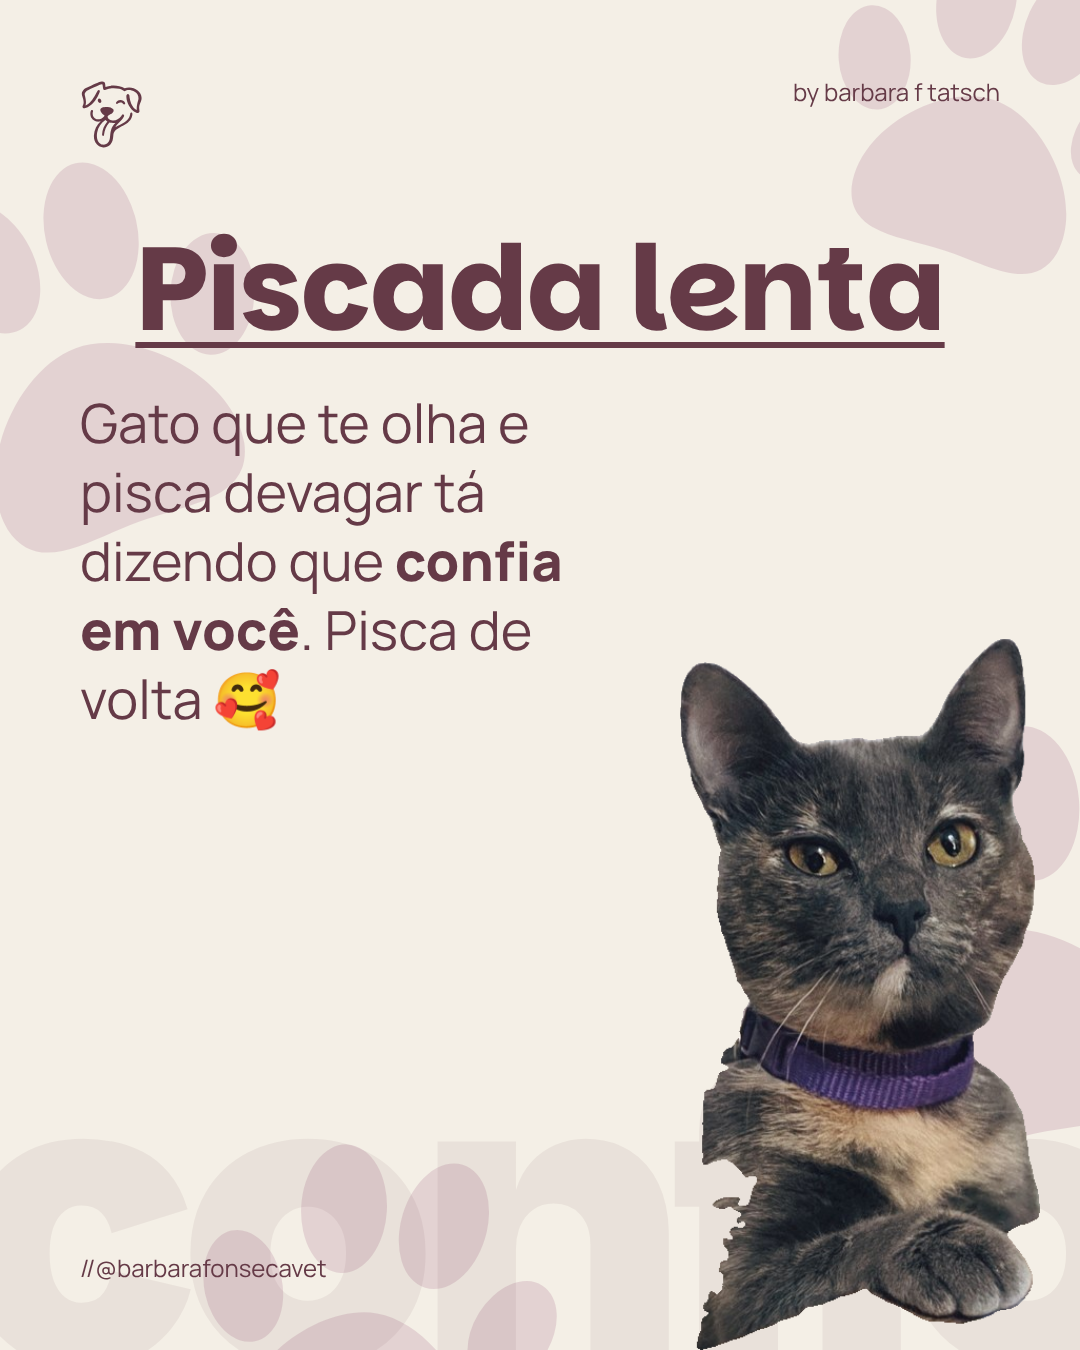
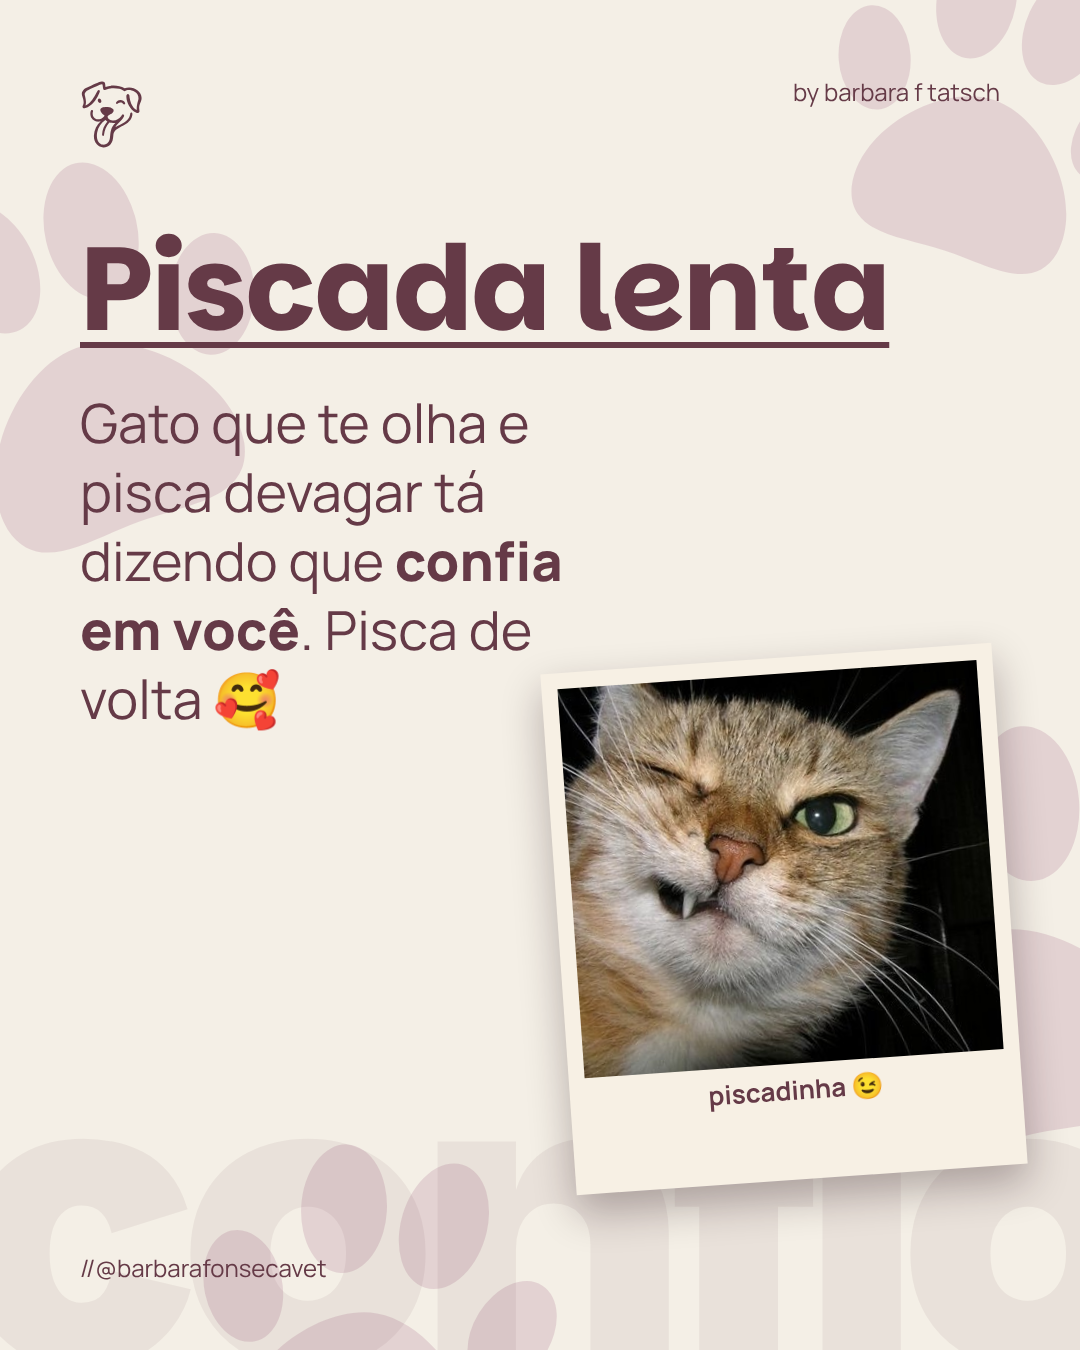
Fotos novas de gato na toxoplasmose e na piscada lenta; edições do canvas espelhadas
Ultrassom com nome e data de nascimento desfocados; recorte do gato no vaso
com a transparência original.

Claude-Session: https://claude.ai/code/session_012dBNqwcpy8QWcz4DKmFao3

Changed region(s): [[0.4889, 0.4667, 0.9778, 1.0], [0.0611, 0.1556, 0.8861, 0.28]]

diff --git a/Barbara/posts/carrosseis-figma/05-o-que-seu-pet-diz.html b/Barbara/posts/carrosseis-figma/05-o-que-seu-pet-diz.html
@@ -1,12 +1,12 @@
 <!doctype html><html lang="pt-BR"><head><meta charset="utf-8"><link rel="stylesheet" href="../../design-system/components/bundle.css"><link rel="stylesheet" href="estilo.css"><title>O que seu pet tenta te dizer todos os dias</title></head><body><div class="tira">
 
 <section class="s foto-s"><img class="foto" src="../../design-system/assets/Fotos/banco-novo/salsicha-fantasia-flor.webp" alt="Salsicha fantasiado de flor laranja olhando pra cima"><div class="sombra-baixo" style="background:linear-gradient(0deg,rgba(40,15,24,.88) 0%,rgba(40,15,24,.55) 38%,rgba(40,15,24,0) 62%)"></div><div class="sombra-topo" style="background:linear-gradient(180deg,rgba(40,15,24,.8) 0%,rgba(40,15,24,.45) 34%,rgba(40,15,24,0) 55%)"></div> <i class="bf-logo"></i><p class="by">by barbara f tatsch</p><p class="handle">//@barbarafonsecavet</p>
-  <div class="capa-bloco" style="top:170px"><p class="gigante" style="font-size:126px;line-height:.92">O que seu pet tenta te dizer</p><span class="etiqueta">[todos os dias?]</span></div>
+  <div class="capa-bloco" style="top:170px"><p class="gigante" style="font-size:126px;line-height:.92">O que seu pet tenta te dizer</p><span class="etiqueta" style="background-color:#A0AD90">[todos os dias?]</span></div>
   <div class="texto-pe" style="bottom:120px"><p class="texto-mini" style="font-size:40px">O rabo, as orelhas, o olhar, a postura e até o silêncio dizem <b>muito sobre como ele está se sentindo.</b></p></div></section>
 
 <section class="s creme"><i class="pata" style="left:-130px;top:150px;width:420px;height:420px;transform:rotate(-20deg)"></i><i class="pata" style="right:-90px;top:-70px;width:360px;height:360px;transform:rotate(18deg)"></i><i class="pata" style="right:-150px;bottom:170px;width:470px;height:470px;transform:rotate(-12deg)"></i><i class="pata" style="left:180px;bottom:-170px;width:390px;height:390px;transform:rotate(10deg)"></i><p class="fundo-palavra" aria-hidden="true" style="left:-40px;bottom:-40px">confio</p><i class="bf-logo"></i><p class="by">by barbara f tatsch</p><p class="handle">//@barbarafonsecavet</p>
-  <img class="recorte" src="recorte-gata-escaminha.png" alt="" style="right:40px;bottom:0;width:360px">
-  <div class="miolo" style="justify-content:flex-start;top:230px"><h2 class="titulo"><u>Piscada lenta</u></h2>
+  <div class="polaroid" style="right:70px;bottom:170px;width:420px;height:450px;transform:rotate(-4deg)"><div style="background-image:url(../../design-system/assets/Fotos/banco-novo/gato-piscando.png);background-position:50% 40%;height:390px"></div><span>piscadinha 😉</span></div>
+  <div class="miolo" style="justify-content:flex-start;top:230px"><h2 class="titulo" style="text-align:left"><u>Piscada lenta</u></h2>
   <p class="corpo" style="max-width:560px">Gato que te olha e pisca devagar tá dizendo que <b>confia em você</b>. Pisca de volta 🥰</p></div></section>
 
 <section class="s vinho"><i class="bf-logo"></i><p class="by">by barbara f tatsch</p><p class="handle">//@barbarafonsecavet</p><p class="fundo-palavra" aria-hidden="true" style="left:-40px;top:620px">rabo</p>
@@ -17,9 +17,7 @@
   <div class="card-foto" style="background-image:url(../../design-system/assets/Fotos/banco-novo/dois-goldens-deitados.png);background-position:50% 55%"><div class="tarja-card"><div class="bf-tarja"><span><b>Barriga pra cima</b>,</span></div></div></div>
   <div class="bilhete">ou esparramado assim: nem sempre é convite pra carinho. <b>Às vezes é só confiança.</b></div></section>
 
-<section class="s foto-s"><img class="foto" src="../../design-system/assets/Fotos/banco-novo/corgi-dirigindo-meme.webp" alt="Corgi no volante de boca aberta" style="object-position:35% 50%"><div class="sombra-topo" style="background:linear-gradient(180deg,rgba(40,15,24,.8) 0%,rgba(40,15,24,.45) 34%,rgba(40,15,24,0) 55%)"></div> <i class="bf-logo"></i><p class="by">by barbara f tatsch</p><p class="handle">//@barbarafonsecavet</p>
-  <div class="grupo-topo"><div class="bf-tarja"><span>Bocejo e</span><span><b>lambida no focinho</b></span></div>
-  <p class="texto-mini" style="font-size:46px">Fora de hora, podem ser sinal de que ele tá <b>desconfortável</b>.</p></div></section>
+<section class="s foto-s"><img class="foto" src="../../design-system/assets/Fotos/banco-novo/corgi-dirigindo-meme.webp" alt="Corgi no volante de boca aberta" style="object-position:35% 50%"><div class="sombra-topo" style="background:linear-gradient(180deg,rgba(40,15,24,.8) 0%,rgba(40,15,24,.45) 34%,rgba(40,15,24,0) 55%)"><div class="bf-tarja" style="position:absolute;left:163px;top:838px"><span>Bocejo e</span><span><b>lambida no focinho</b></span></div><p class="texto-mini" style="font-size:46px;position:absolute;left:-29px;top:1058px;text-align:center;width:1078px">Fora de hora, podem ser sinal de que ele tá <b>desconfortável</b>.</p></div> <i class="bf-logo"></i><p class="by">by barbara f tatsch</p><p class="handle">//@barbarafonsecavet</p></section>
 
 <section class="s xadrez--salvia"><i class="bf-logo"></i><p class="by">by barbara f tatsch</p><p class="handle">//@barbarafonsecavet</p>
   <div class="miolo"><div class="cartaz"><h2 class="titulo">O silêncio também fala</h2>

diff --git a/Barbara/posts/carrosseis-figma/01-toxoplasmose.html b/Barbara/posts/carrosseis-figma/01-toxoplasmose.html
@@ -4,7 +4,7 @@
   <div class="capa-bloco" style="bottom:130px"><span class="etiqueta">[mito ou verdade?]</span><p class="gigante" style="font-size:138px">Toxoplasmose</p><p class="sub-gigante">é <b>doença do gato?</b> 🐈</p></div></section>
 
 <section class="s creme"><p class="fundo-palavra" aria-hidden="true" style="left:-30px;bottom:-40px">mito</p><i class="pata" style="left:-130px;top:150px;width:420px;height:420px;transform:rotate(-20deg)"></i><i class="pata" style="right:-90px;top:-70px;width:360px;height:360px;transform:rotate(18deg)"></i><i class="pata" style="right:-150px;bottom:170px;width:470px;height:470px;transform:rotate(-12deg)"></i><i class="pata" style="left:180px;bottom:-170px;width:390px;height:390px;transform:rotate(10deg)"></i> <i class="bf-logo"></i><p class="by">by barbara f tatsch</p><p class="handle">//@barbarafonsecavet</p>
-  <img class="recorte" src="recorte-filhote-gato.png" alt="" style="right:10px;bottom:0;width:440px">
+  
   <div class="miolo" style="justify-content:flex-start;top:230px"><h2 class="titulo" style="text-align:start"><u>Não é</u> bem assim.</h2>
   <p class="corpo" style="max-width:520px">A forma mais comum de pegar é <b>comendo</b>: carne crua ou mal passada e verdura mal lavada.</p>
   <p class="fecho" style="max-width:520px">O gato só leva a fama.</p></div></section>
@@ -15,19 +15,19 @@
 
 <section class="s vinho"><p class="fundo-palavra" aria-hidden="true" style="left:-40px;top:560px">dias</p><i class="bf-logo"></i><p class="by">by barbara f tatsch</p><p class="handle">//@barbarafonsecavet</p>
   <h2 class="e5-titulo">E o cocô fresquinho não passa.</h2>
-  <img class="recorte" src="recorte-dois-gatos.png" alt="" style="right:-40px;bottom:120px;width:520px">
+  <img class="recorte" src="recorte-gato-no-vaso.png" alt="Gato sentado no vaso sanitário" style="right:10px;bottom:0;width:410px">
   <p class="e5-texto">Ele leva <b>de 1 a 5 dias</b> pra ficar infectante. Limpar a caixinha <b>todo dia</b> já corta esse caminho.</p></section>
 
-<section class="s foto-s"><img class="foto" src="../../design-system/assets/Fotos/filhote-gato-no-casaco.jpg" alt="Gatinho no colo, dentro do casaco"><div class="sombra-topo" style="background:linear-gradient(180deg,rgba(40,15,24,.6) 0%,rgba(40,15,24,.25) 30%,rgba(40,15,24,0) 45%)"></div><i class="bf-logo"></i><p class="by">by barbara f tatsch</p><p class="handle">//@barbarafonsecavet</p>
-  <div class="grupo-topo"><div class="bf-tarja"><span>Grávida? <b>Fica com o gato.</b></span></div>
-  <p class="texto-mini">Pede pra outra pessoa limpar a caixinha. Se não der, usa <b>luva</b> e <b>lava bem as mãos</b>.</p></div></section>
+<section class="s foto-s"><img class="foto" src="../../design-system/assets/Fotos/banco-novo/gato-ultrassom-gravida.jpg" alt="Gato laranja ao lado de uma tira de ultrassom de bebê" style="object-position:40% 35%"><div class="sombra-baixo" style="background:linear-gradient(0deg,rgba(40,15,24,.88) 0%,rgba(40,15,24,.55) 38%,rgba(40,15,24,0) 62%)"></div><i class="bf-logo"></i><p class="by">by barbara f tatsch</p><p class="handle">//@barbarafonsecavet</p>
+  <div class="grupo-baixo"><div class="bf-tarja"><span>Grávida?</span><span><b>Fica com o gato.</b> 🤰</span></div>
+  <p class="texto-mini" style="font-size:46px">Pede pra outra pessoa limpar a caixinha. Se não der, usa <b>luva</b> e <b>lava bem as mãos</b>.</p></div></section>
 
-<section class="s"><img class="fundo-escuro" src="../../design-system/assets/Fotos/gato-cinza-cadeira.jpg" alt=""><i class="bf-logo"></i><p class="by">by barbara f tatsch</p><p class="handle">//@barbarafonsecavet</p>
+<section class="s"><img class="fundo-escuro" src="../../design-system/assets/Fotos/banco-novo/gato-laranja-cozinha.webp" alt=""><i class="bf-logo"></i><p class="by">by barbara f tatsch</p><p class="handle">//@barbarafonsecavet</p>
   <h2 class="e7-titulo">Gato de apartamento</h2>
-  <div class="e7-quadro" role="img" aria-label="Gato cinza espiando atrás da mesa" style="background:url(../../design-system/assets/Fotos/gato-cinza-cadeira.jpg) 47% 47%/240% auto no-repeat"></div>
+  <div class="e7-quadro" role="img" aria-label="Gato laranja na bancada da cozinha" style="background:url(../../design-system/assets/Fotos/banco-novo/gato-laranja-cozinha.webp) 28% 72%/165% auto no-repeat"></div>
   <p class="e7-texto">que come ração e não caça tem <b>bem menos chance</b> de se infectar.</p></section>
 
 <section class="s creme"><p class="fundo-palavra" aria-hidden="true" style="left:-60px;bottom:-30px">grávida</p><i class="bf-logo"></i><p class="by">by barbara f tatsch</p><p class="handle">//@barbarafonsecavet</p>
-  <p class="e8-texto">Conhece uma <b>tutora grávida</b> que tem gato? Manda esse post pra ela 🫶</p></section>
+  <p class="e8-texto">Conhece uma <b>tutora grávida</b> que tem gato? Manda esse post pra ela!</p></section>
 
 </div></body></html>
